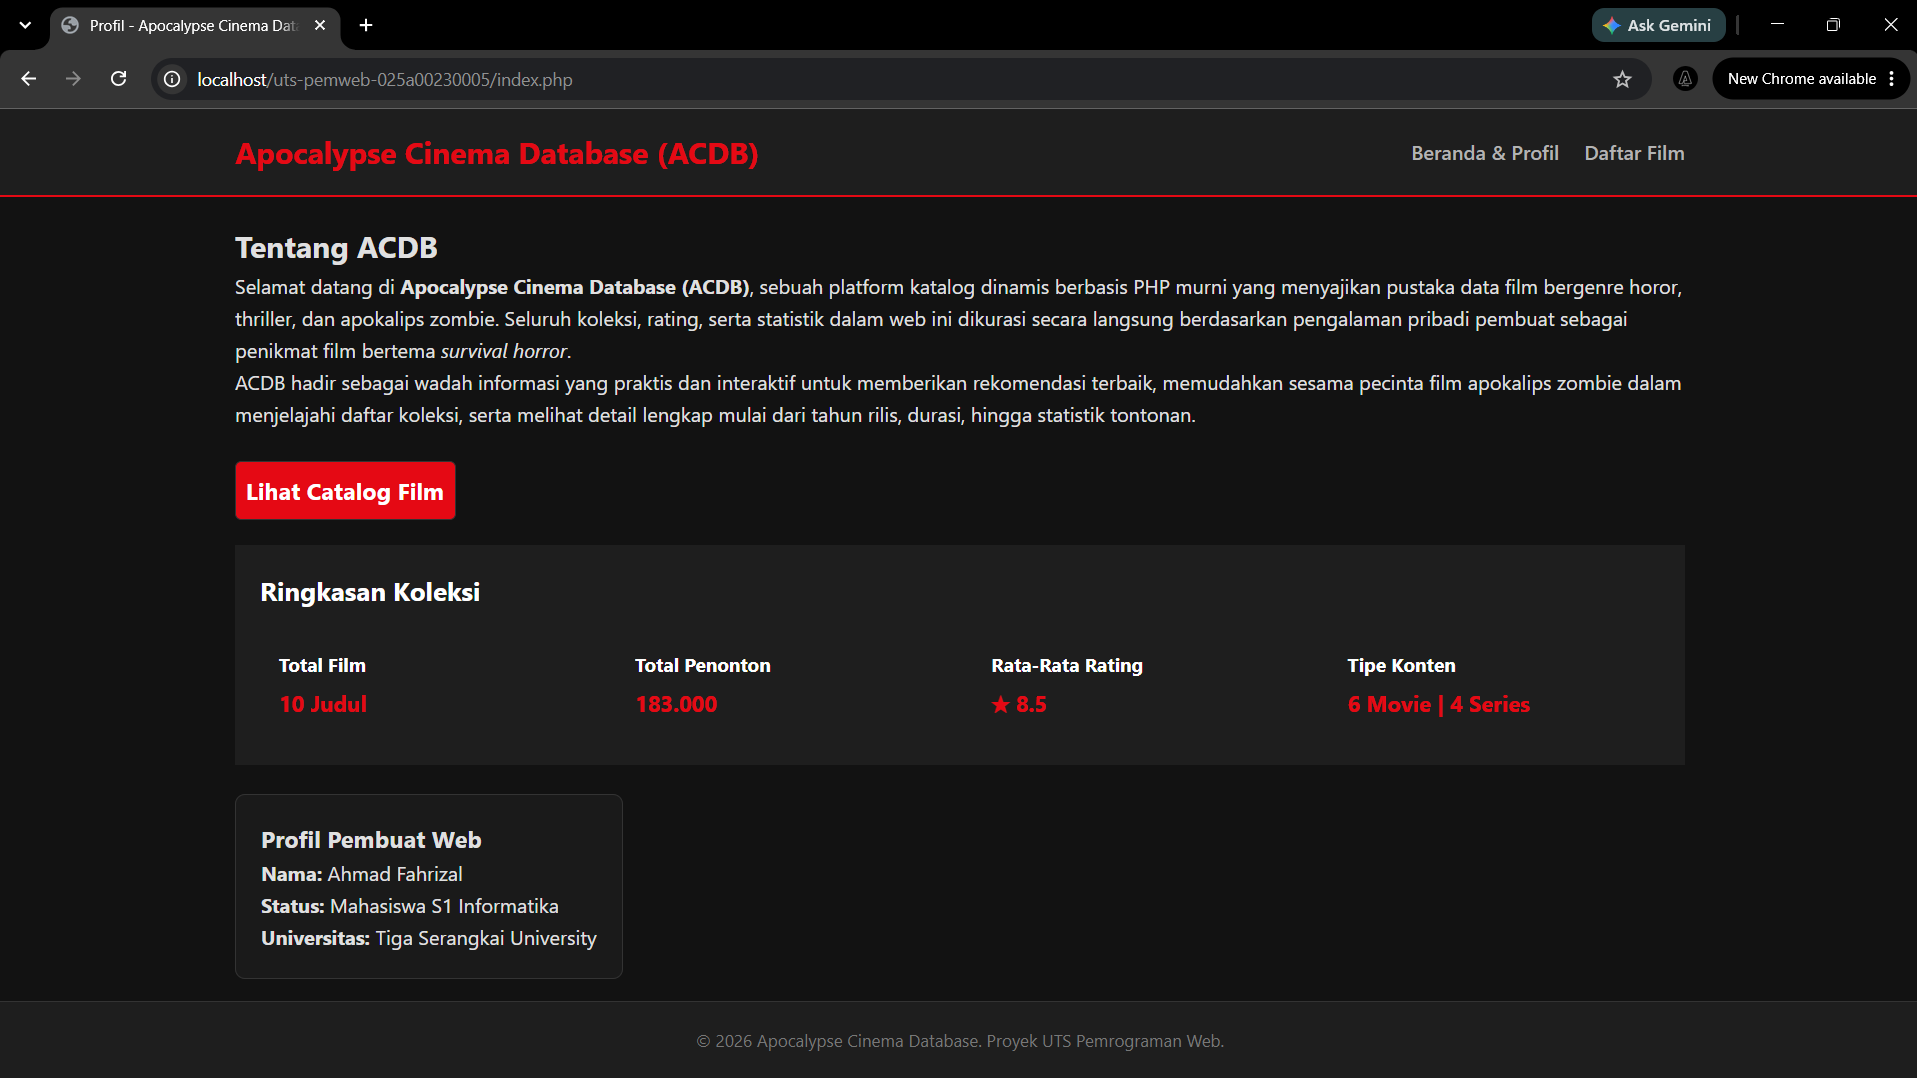
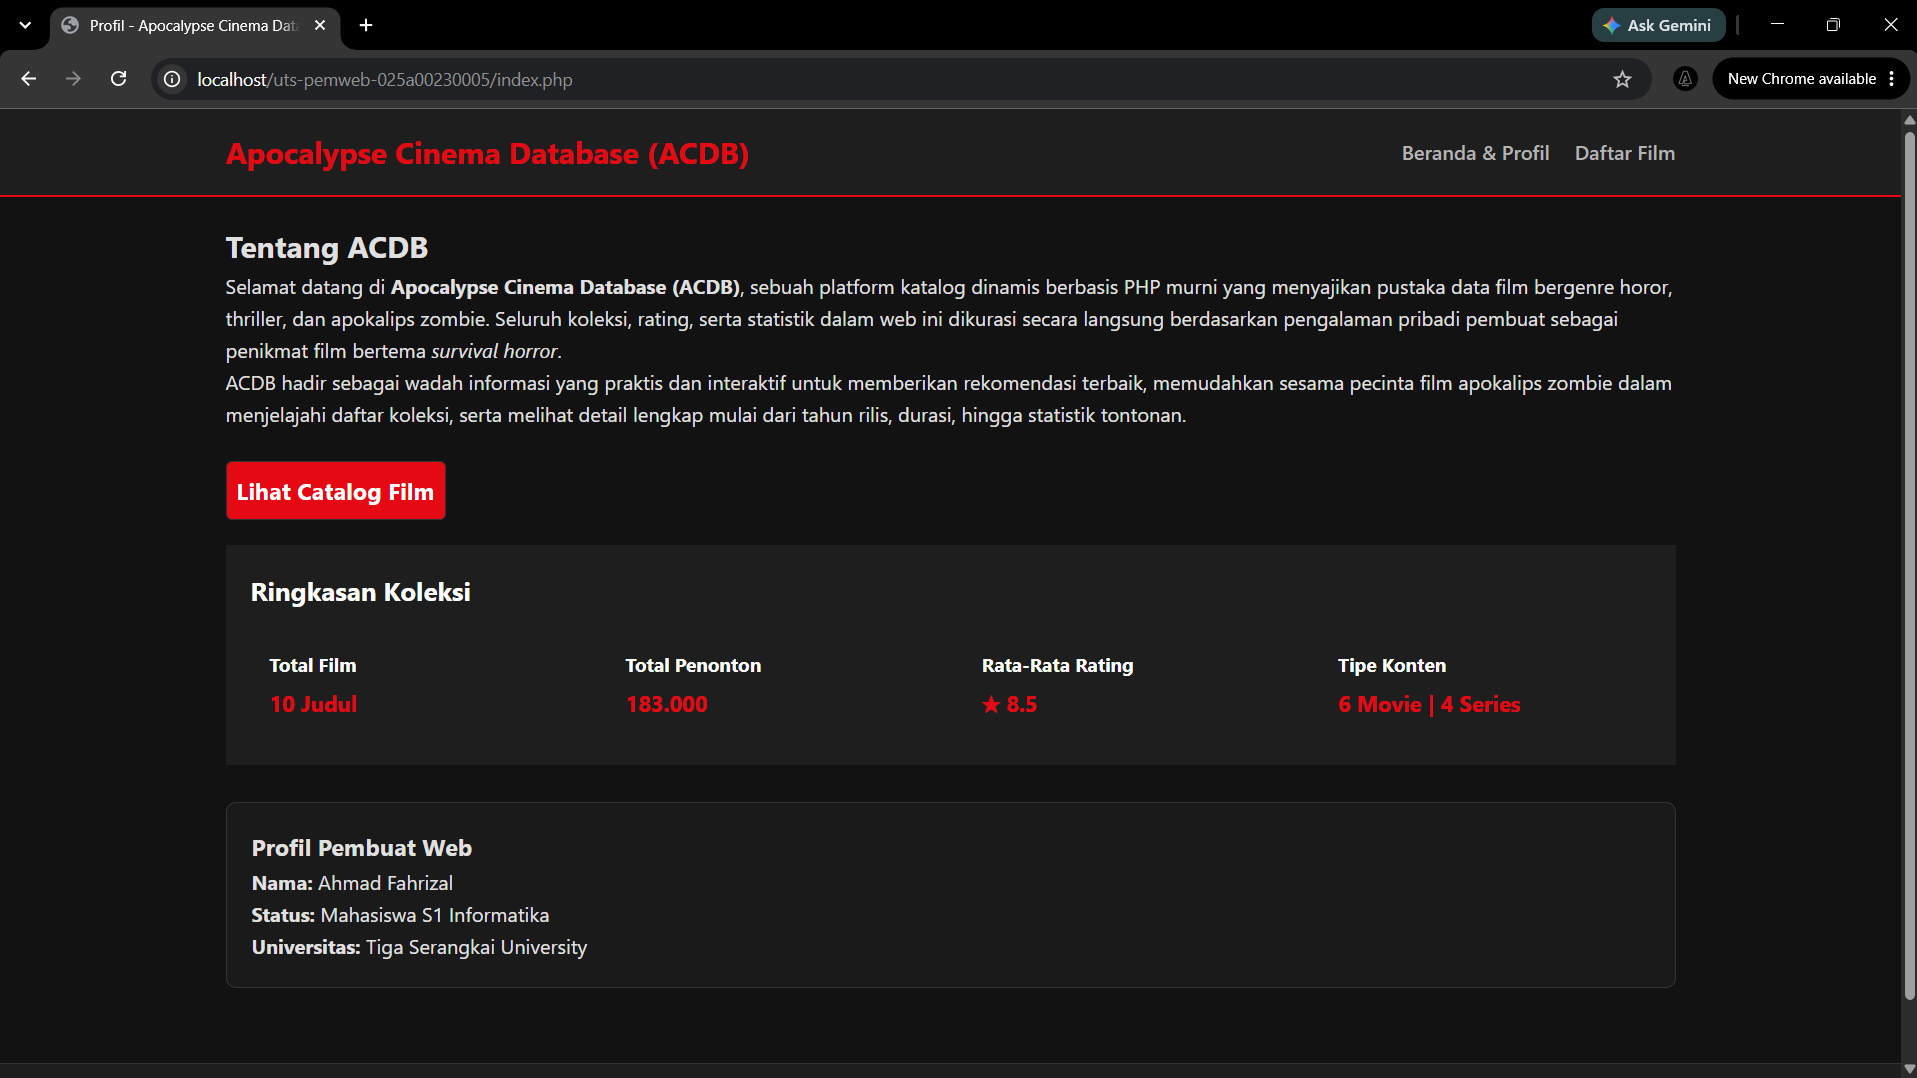
update gambar screenshot

diff --git a/README.md b/README.md
@@ -42,6 +42,6 @@ Tema yang saya pilih adalah Koleksi Pribadi (film). Judul dari aplikasi web kata
 ![Katalog Film](screenshots/katalog-film.png)
 
 ## Sumber Referensi & Catatan AI
-* Referensi desain UI: Antarmuka bertema platform streaming film lk21.de.
+* Referensi desain UI: Antarmuka bertema platform streaming film terinspirasi dari web  lk21.de.
 * Referensi nama web: Nama platform Apocalyps "Apocalypse Cinema Database (ACDB)" terinspirasi dari platform imdb.com (Internet Movie Database)
 * Pembantu Pengembangan (AI): Menggunakan Gemini AI sebagai teman berdiskusi tentang tampilan css, cara commit git, penyusunan fungsi statistik dan dokumentasi README.
